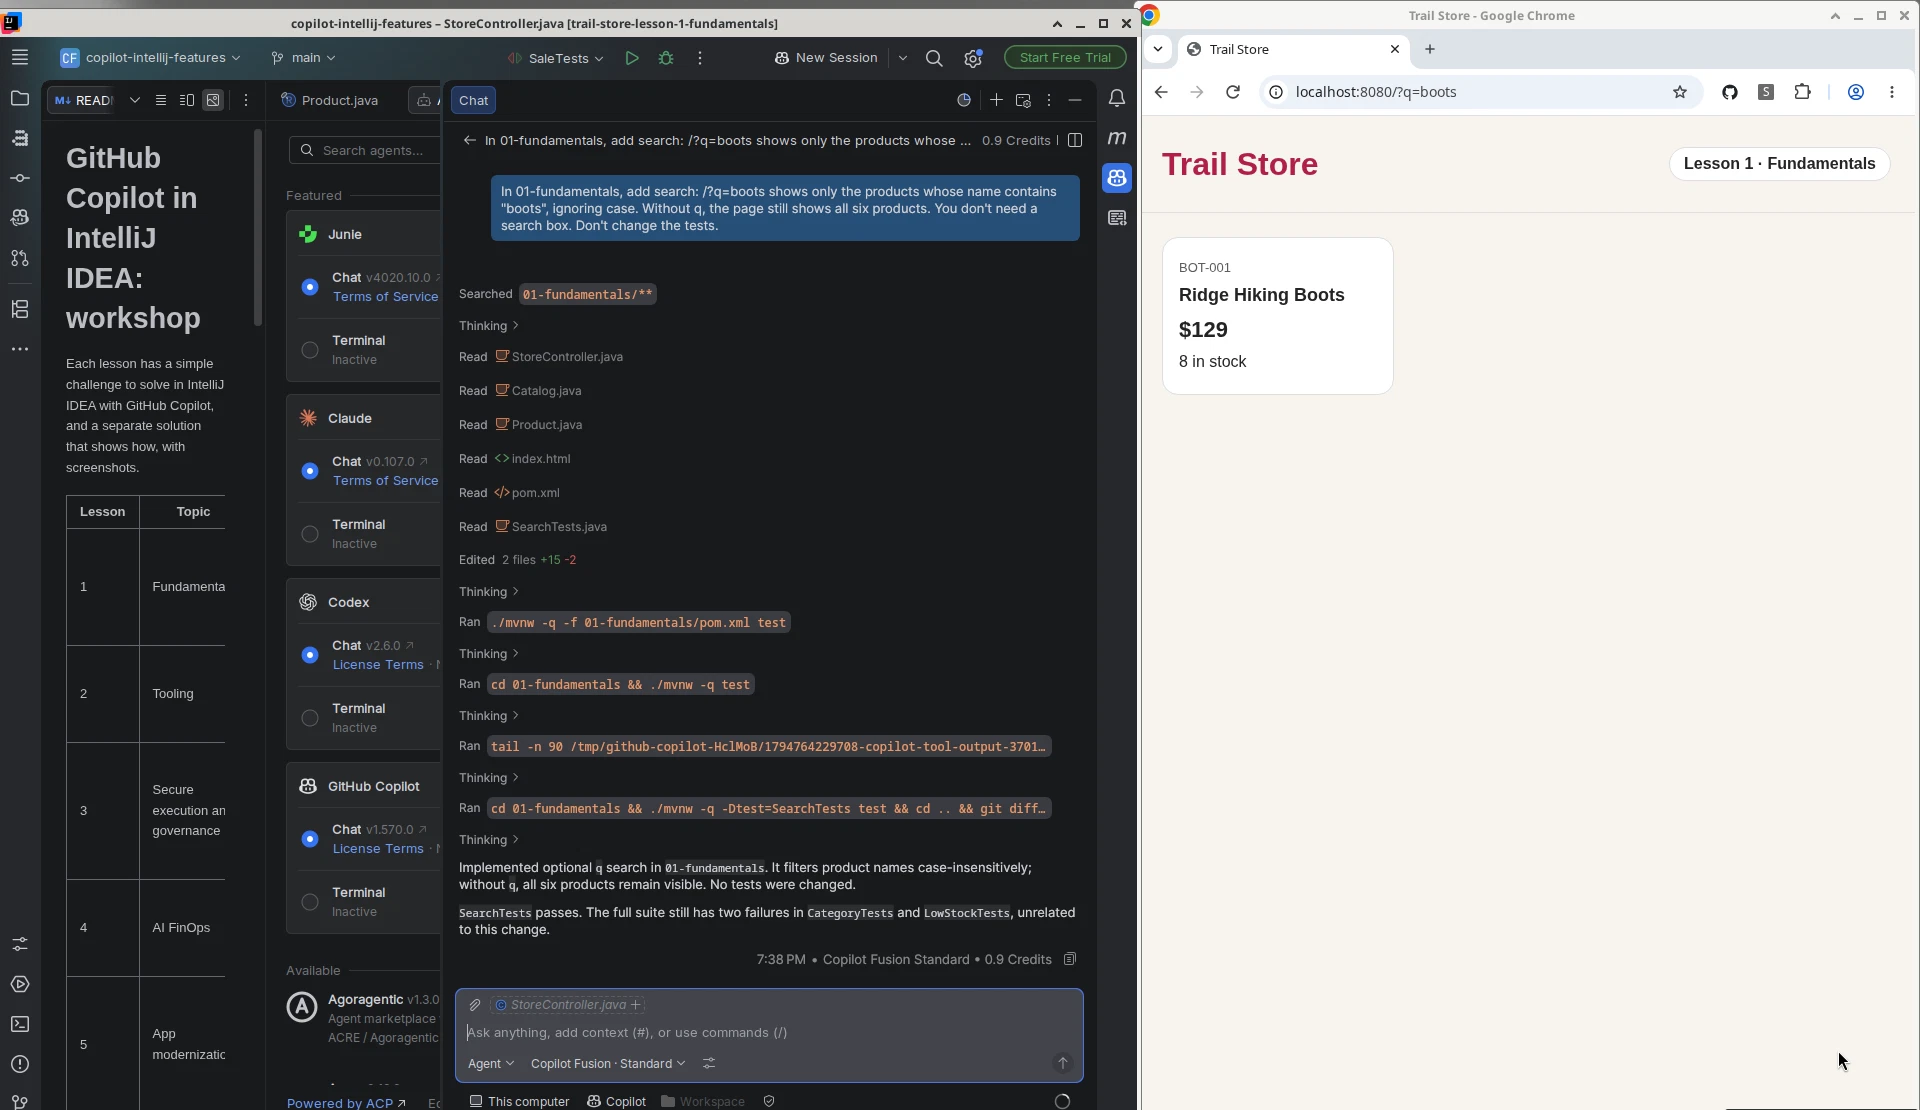
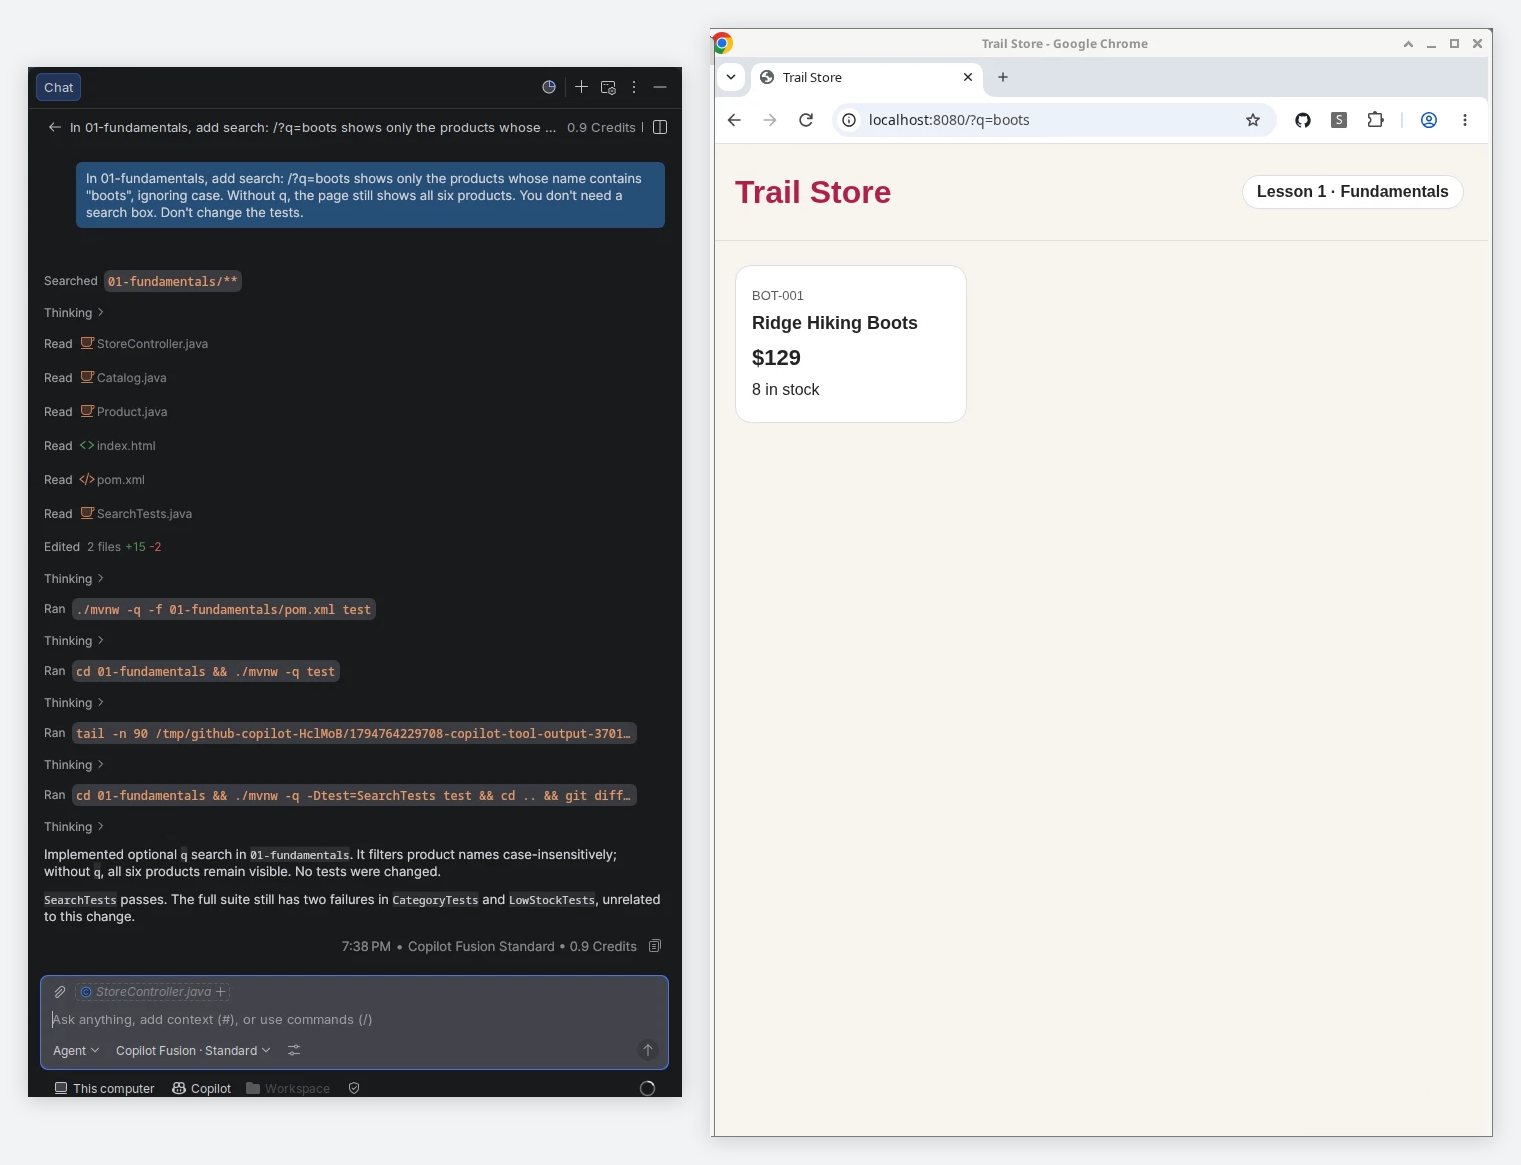
Simplify the landing screenshot

diff --git a/README.md b/README.md
@@ -2,7 +2,7 @@
 
 Each lesson has a simple challenge to solve in IntelliJ IDEA with GitHub Copilot, and a separate solution that shows how, with screenshots.
 
-<p align="center"><img src="screenshots/landing.png" alt="GitHub Copilot in IntelliJ IDEA adding search to Trail Store, beside the store showing only the boots" width="720"></p>
+<p align="center"><img src="screenshots/landing.png" alt="GitHub Copilot Chat adding search to Trail Store, beside the store showing only Ridge Hiking Boots" width="640"></p>
 
 | Lesson | Topic | Features | Challenge | Solution |
 |---|---|---|---|---|
